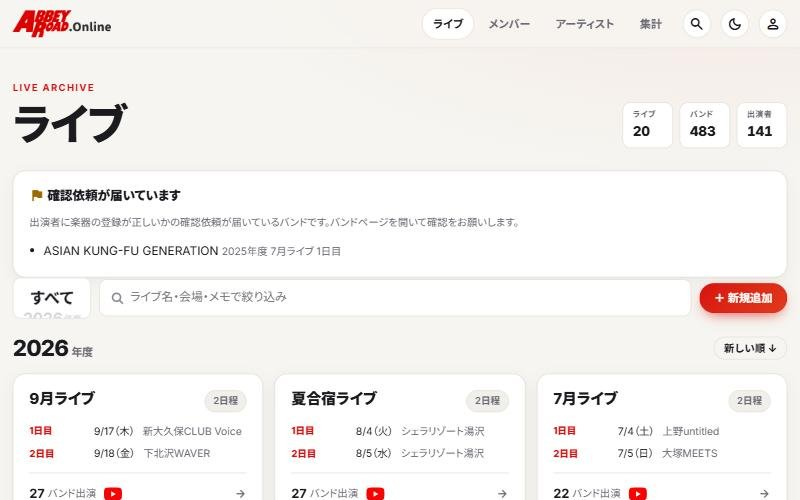
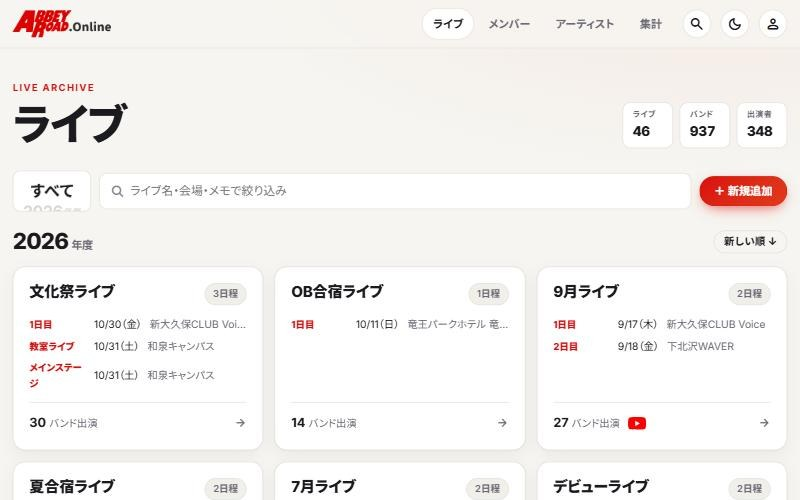
チュートリアル: 1枚目（ライブ一覧）の画像を撮り直し

diff --git a/v3/partials/tutorial.php b/v3/partials/tutorial.php
@@ -12,10 +12,10 @@
 $slides = [
     ['img' => 'lives.jpg', 'title' => 'AbbeyRoad.online へようこそ',
      'text'  => 'アビーロードのライブの記録を、みんなで残していくサイトです。トップにはライブが新しい順に並んでいます。'],
-    ['img' => 'setlist.jpg', 'title' => 'バンドページでセットリストを登録',
-     'text'  => 'バンドページ右上の「曲を編集」から、演奏した曲を登録できます。曲ごとに、誰がコーラスしたか・楽器を持ち替えたか・出ていないかも残せます。'],
     ['img' => 'timetable.jpg', 'title' => 'ライブ・バンドを見る',
      'text'  => 'ライブを開くとタイムテーブル、バンドを開くとメンバーやセットリストが見られます。気に入ったバンドには ❤ を。'],
+    ['img' => 'setlist.jpg', 'title' => 'バンドページでセットリストを登録',
+     'text'  => 'バンドページ右上の「曲を編集」から、演奏した曲を登録できます。曲ごとに、誰がコーラスしたか・楽器を持ち替えたか・出ていないかも残せます。'],
     ['img' => 'member.jpg', 'title' => 'メンバーとプロフィール',
      'text'  => 'メンバーのページでは、その人が出たバンドや弾いた楽器がまとまっています。自分のプロフィールは右上のアカウントから編集できます。'],
     ['img' => 'stats.jpg', 'title' => '集計で振り返る',
@@ -28,7 +28,7 @@ $last = count($slides) - 1;
         <?php foreach ($slides as $i => $s): ?>
         <section class="tutorial__slide" data-tutorial-slide <?= $i === 0 ? '' : 'hidden' ?>>
             <div class="tutorial__img">
-                <img src="assets/tutorial/<?= h($s['img']) ?>?v=1" alt="" loading="lazy"><!-- 開くまで読み込まない（全ページに置いているので）。開いたら JS が全部読み込ませる -->
+                <img src="assets/tutorial/<?= h($s['img']) ?>?v=2" alt="" loading="lazy"><!-- 開くまで読み込まない（全ページに置いているので）。開いたら JS が全部読み込ませる -->
             </div>
             <div class="tutorial__text">
                 <p class="tutorial__step"><?= $i + 1 ?> / <?= $last + 1 ?></p>
